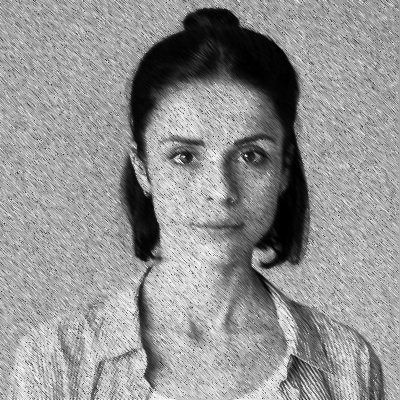
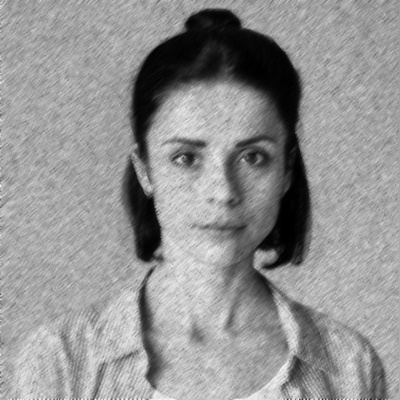
sketch being done well

diff --git a/Q2/Q2.py b/Q2/Q2.py
@@ -41,6 +41,20 @@ class motion:
 
         return canvas
 
+    def quadEqn(self, x, base):
+        if x == 0:
+            return 0
+        return (1/base)*(x**(2))
+
+    def curve(self, size):
+        canvas = [[0 for i in range(size)] for j in range(size)]
+        for i in range(size):
+            canvas[int(self.quadEqn(i, size))][i] = 1
+
+        for row in canvas:
+            row.reverse()
+        return canvas
+
 class Laplacian:
     def __init__(self):
         self.filter = [[0, -1, 0],[-1, 4, -1],[[0, -1, 0]]]
@@ -164,7 +178,7 @@ class gaussian:
             for col in range(cols - 1):
                 t_l_x = col - top_left_shift
                 t_l_y = row - top_left_shift
-
+                foundone = False
                 sum_valid = 0
                 sum_valid_maskXintensity = 0
                 mask_canvas = np.zeros((len(mask[0]) - 1, len(mask[0]) - 1))
@@ -226,17 +240,36 @@ class gaussian:
         return canvas
 
 
+def invertGreyImage(image):
+    inverse = image.copy()
 
+    for row in range(len(image[0])):
+        for col in range(len(image[1])):
+            inverse[row][col] = 255 - image[row][col]
+    return inverse
+
+def mixImages(im1, im2, proportion):
+    mix = im1.copy()
+
+    for row in range(len(mix[0])):
+        for col in range(len(mix[1])):
+            mix[row][col] = proportion * im1[row][col] + (1 - proportion) * im2[row][col]
+    return mix
 
 
 
 class sketch:
     def __init__(self, image):
         self.original = image
-        self.rows, self.cols, self.dims = self.original.shape
+        try:
+            self.rows, self.cols, self.dims = self.original.shape
+        except:
+            self.rows, self.cols = self.original.shape
+            self.dims = 1
 
-        self.greyscale = self.greyscaleImage()
-        self.greyscale_flip = self.invertimage(self.greyscale)
+        if self.dims != 1:
+            self.greyscale = self.greyscaleImage()
+            self.greyscale_flip = self.invertimage()
 
     def pixToGrey(self, pixel):
         # order BGR
@@ -253,7 +286,7 @@ class sketch:
                 greyscale[row][col] = self.pixToGrey(self.original[row][col])
         return greyscale
 
-    def invertimage(self, image):
+    def invertimage(self):
         inverse = np.zeros((self.rows, self.cols), np.uint8)
 
         for row in range(self.rows):
@@ -262,7 +295,10 @@ class sketch:
         return inverse
 
 
+
+
 if __name__ == '__main__':
+    curve = motion().curve(10)
     face_image = cv2.imread("face1.jpg")
 
     drawing = sketch(face_image)
@@ -270,14 +306,20 @@ if __name__ == '__main__':
     grey = drawing.greyscale
     inv_grey = drawing.greyscale_flip
 
-    # blured_face = gaussian().applyMask(inv_grey, gaussian().gaussianMask(3, 1))
+    blured_face = gaussian().applyMask(inv_grey, gaussian().gaussianMask(3, 1))
 
-    # sketch_test = merg().colourDodge(grey, blured_face,0.75)
+    sketch_test = merg().colourDodge(grey, blured_face,0.75)
 
-    noise_texture = gaussian().gaussianNoise(grey, 0.5)
-    motion_blured = gaussian().applyMaskBilatrealy2(noise_texture, motion().line(5),2,100)
+    noise_texture = gaussian().gaussianNoise(sketch_test, 0.5)
+    motion_blured = gaussian().applyMaskBilatrealy2(noise_texture, motion().curve(10),2,100)
+    motion_blured = gaussian().applyMask(motion_blured, gaussian().gaussianMask(3, 1))
+    edges  = invertGreyImage(cv2.Laplacian(grey, cv2.CV_16S, ksize=3))
 
-    # sketch_test = cv2.divide(grey, 100-blured_face, scale=256)
-    cv2.imwrite("noise_test.jpg", noise_texture)
-    cv2.imwrite("alt_motion_test.jpg", motion_blured)
-    # cv2.imwrite("test_blur.jpg", blured_face)
+
+    cv2.imwrite("sketch.jpg", sketch_test)
+
+    nNs =  mixImages(motion_blured, edges, 0.98)
+    #cv2.imwrite("noisAndEdges.jpg", nNs)
+    final_mix = mixImages(nNs, grey, 0.6)
+    cv2.imwrite("final.jpg", final_mix)
+
